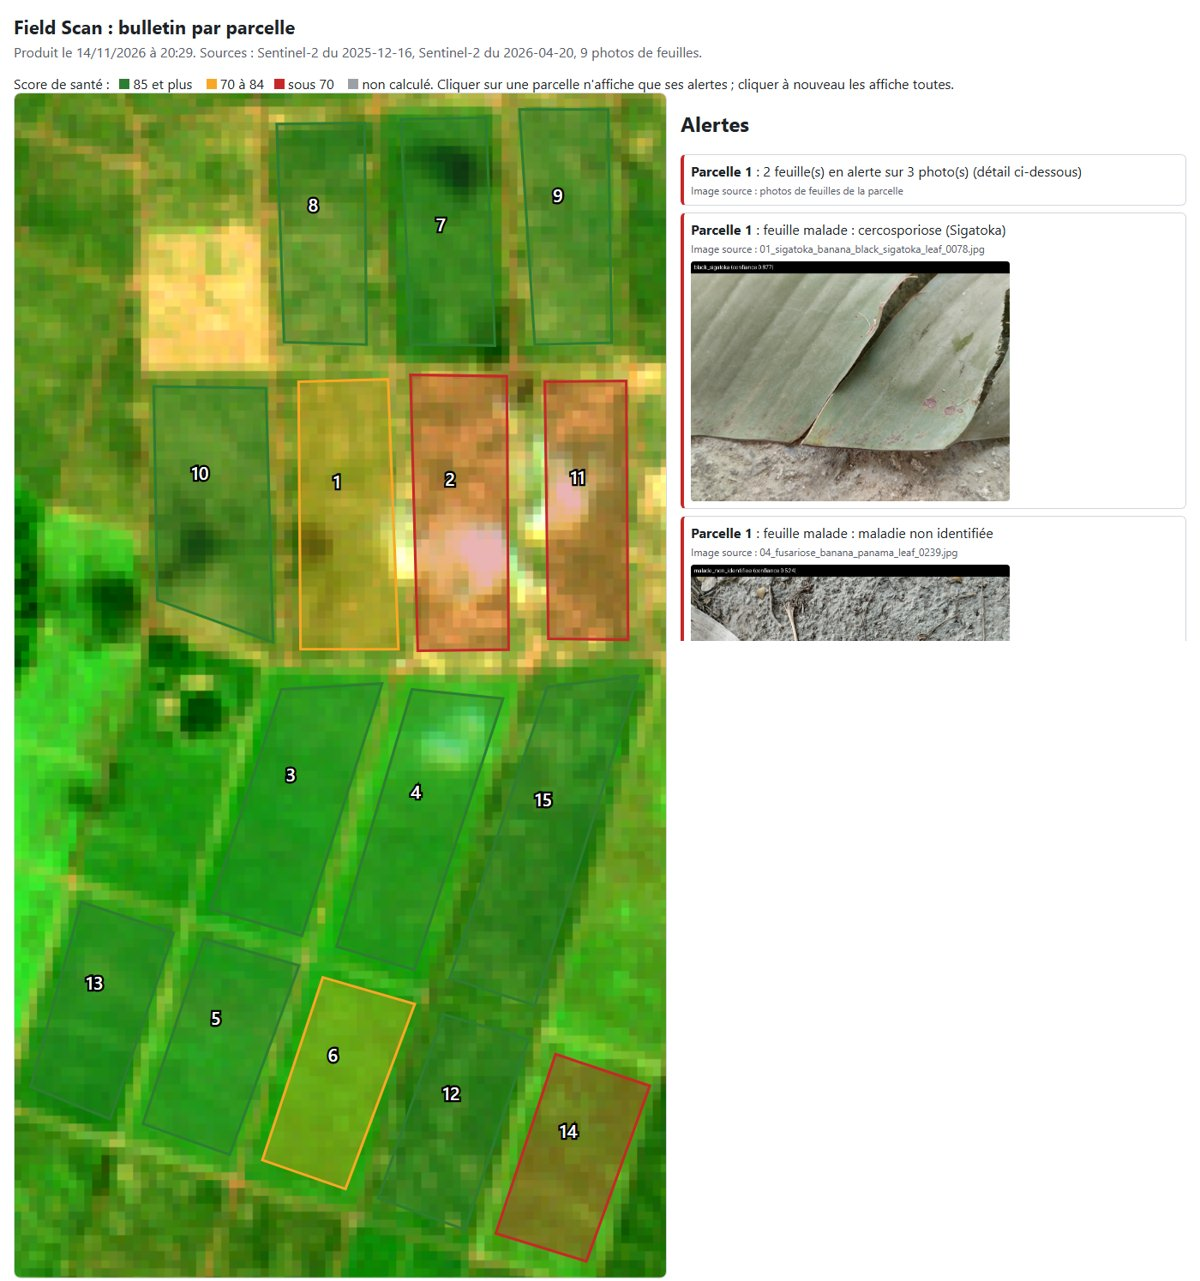
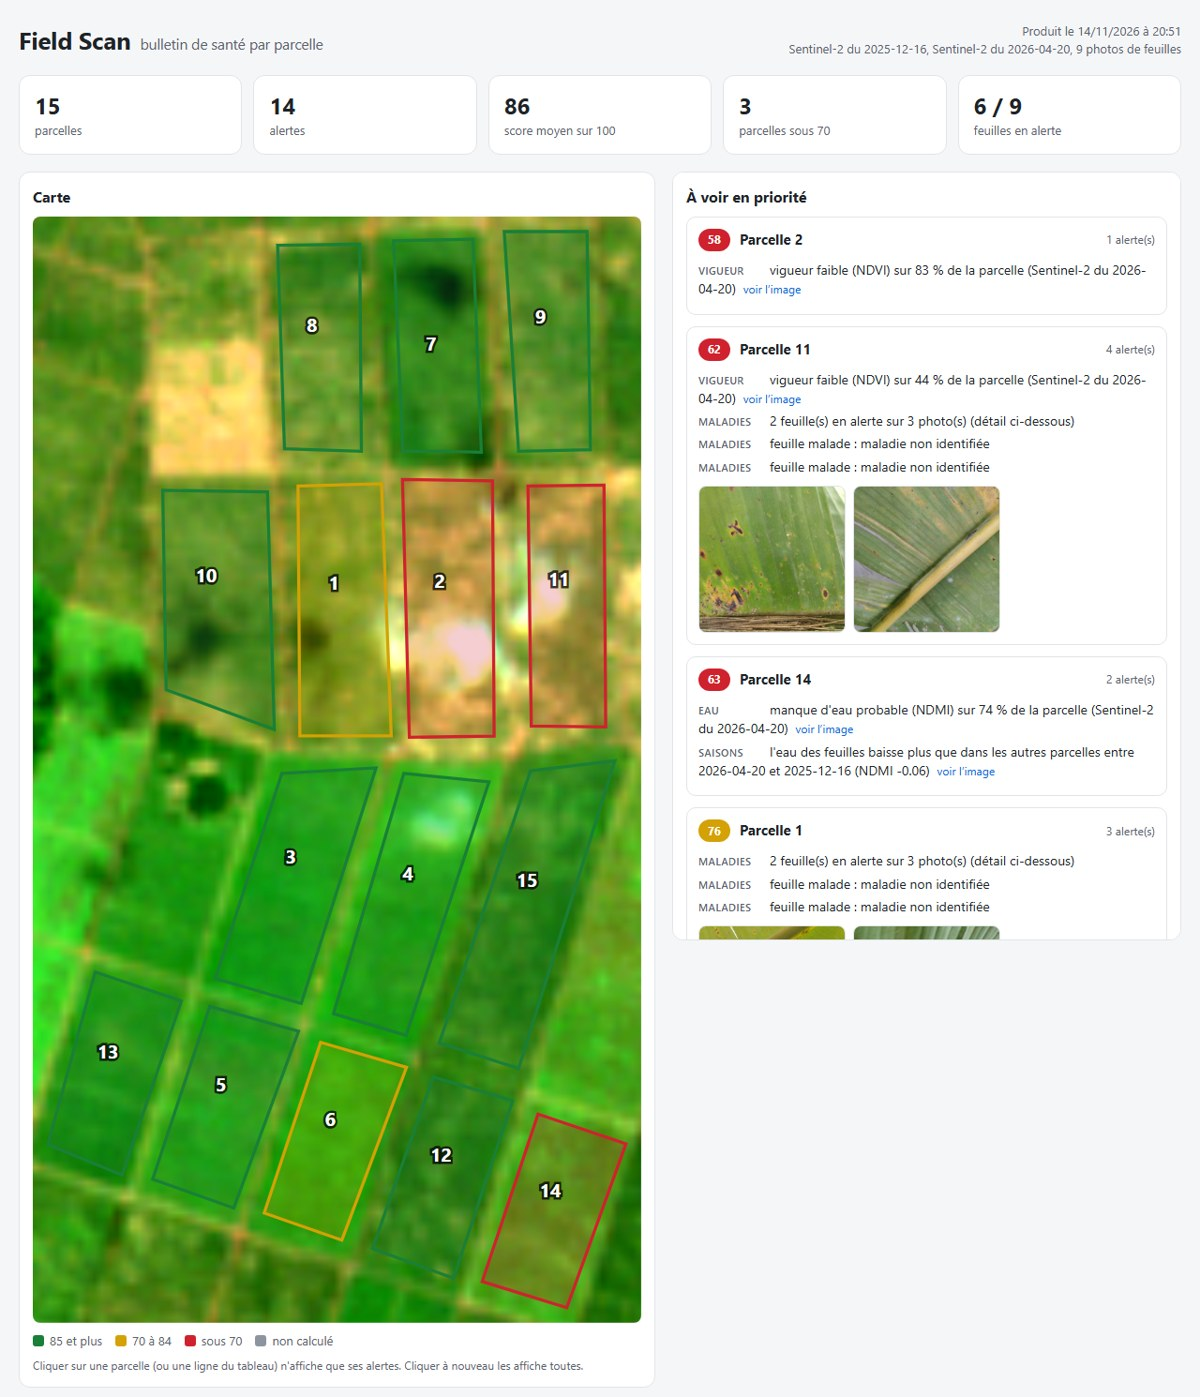
Bulletin refait : plus clair et plus propre
En haut, les chiffres clés (parcelles, alertes, score moyen, pieds, feuilles).
La carte a un fond Sentinel-2 lissé et des contours nets. Les alertes sont
regroupées par parcelle, de la pire à la meilleure, avec le score en pastille.
Seules les photos de feuilles ont une vignette, carrée, sans texte collé dessus ;
les autres alertes ont un lien vers leur image.
Le tableau a des noms de colonnes lisibles et des nombres à la française.
Les avertissements passent en bas, dans « Remarques ».
README : nouvelle image du bulletin, avec des feuilles prises de près.

diff --git a/bulletin/bulletin.py b/bulletin/bulletin.py
@@ -50,85 +50,202 @@ def notes_et_alertes(parcelles, mesures):
     return tableau, alertes
 
 
+VERT, ORANGE, ROUGE, GRIS = "#1a7f37", "#d4a106", "#cf222e", "#8c959f"
+
+NOMS_COLONNES = {
+    "parcelle": "Parcelle", "priorite": "Priorité", "surface_ha": "Surface (ha)", "pieds": "Pieds",
+    "pieds_par_ha": "Pieds par ha", "vari": "VARI", "couverture_vegetale_%": "Couverture végétale (%)",
+    "vigueur_drone_faible_%": "Vigueur faible, drone (%)", "vigueur_faible_%": "Vigueur faible (%)",
+    "eau_faible_%": "Manque d'eau (%)", "baisse_ndmi_saison": "Baisse du NDMI entre saisons",
+    "photos_feuilles": "Photos de feuilles", "feuilles_malades": "Feuilles malades",
+    "feuilles_inconnu": "« Je ne sais pas »", "note_vigueur": "Note vigueur", "note_eau": "Note eau",
+    "note_maladies": "Note maladies", "score_sante": "Score de santé",
+}
+THEMES = {"vigueur": "Vigueur", "eau": "Eau", "maladies": "Maladies", "saisons": "Saisons"}
+
+
+def _vide(v):
+    if v is None or isinstance(v, str):
+        return v is None
+    try:
+        return bool(pd.isna(v))
+    except (TypeError, ValueError):
+        return False
+
+
 def _couleur(score):
-    if score is None or (isinstance(score, float) and np.isnan(score)):
-        return "#9aa0a6"
-    return "#2e7d32" if score >= 85 else "#f9a825" if score >= SEUIL_ALERTE else "#c62828"
+    if _vide(score):
+        return GRIS
+    return VERT if score >= 85 else ORANGE if score >= SEUIL_ALERTE else ROUGE
+
+
+def _nom_colonne(c):
+    if c in NOMS_COLONNES:
+        return NOMS_COLONNES[c]
+    for prefixe in ("ndvi", "ndre", "ndmi"):
+        if c.startswith(prefixe + "_"):
+            return f"{prefixe.upper()} {c[len(prefixe) + 1:]}"
+    return c.replace("_", " ")
+
+
+def _nombre(v):
+    """Nombre à la française : entier sans virgule, sinon 3 décimales sous 1, 1 au-dessus."""
+    if _vide(v):
+        return ""
+    if isinstance(v, (int, np.integer)) or (isinstance(v, (float, np.floating)) and float(v).is_integer()):
+        return f"{int(v):,}".replace(",", " ")
+    if isinstance(v, (float, np.floating)):
+        return (f"{v:.3f}" if abs(v) < 1 else f"{v:.1f}").replace(".", ",")
+    return str(v)
+
+
+def _pastille(score):
+    texte = "?" if _vide(score) else int(score)
+    return f'<span class="pastille" style="background:{_couleur(score)}">{texte}</span>'
 
 
 def ecrire_html(chemin, tableau, alertes, fond, parcelles_px, pieds_px, sources, avertissements):
-    """Page autonome (sans connexion internet) : carte des parcelles sur l'image de fond, tableau,
-    alertes avec leur image source. fond : (nom du PNG, largeur, hauteur) ; parcelles_px : {id: [anneaux
-    de points en pixels du fond]} ; pieds_px : liste de (x, y)."""
+    """Page autonome (sans connexion internet) : chiffres clés, carte des parcelles sur l'image de fond,
+    alertes regroupées par parcelle avec leurs images, tableau. fond : (nom du PNG, largeur, hauteur) ;
+    parcelles_px : {id: [anneaux de points en pixels du fond]} ; pieds_px : liste de (x, y)."""
     l, h = (fond[1], fond[2]) if fond else (800, 600)
+    e = max(l, h) / 900                                   # épaisseurs à l'échelle de la carte
+    scores = {r["parcelle"]: r.get("score_sante") for _, r in tableau.iterrows()}
+
+    # carte
     formes = []
     for _, r in tableau.iterrows():
         anneaux = parcelles_px.get(r["parcelle"], [])
         d = " ".join("M" + " L".join(f"{x:.1f},{y:.1f}" for x, y in a) + " Z" for a in anneaux)
-        score = r.get("score_sante")
-        formes.append(f'<path class="parcelle" data-id="{r["parcelle"]}" d="{d}" fill="{_couleur(score)}" '
-                      f'fill-opacity="0.35" stroke="{_couleur(score)}" stroke-width="2"><title>Parcelle {r["parcelle"]}'
-                      f' : score {score if score is not None else "non calculé"}</title></path>')
+        c = _couleur(r.get("score_sante"))
+        formes.append(f'<path class="parcelle" data-id="{r["parcelle"]}" d="{d}" fill="{c}" fill-opacity="0.22" '
+                      f'stroke="{c}" stroke-width="{2.5 * e:.1f}"><title>Parcelle {r["parcelle"]}</title></path>')
         if anneaux:
             xs, ys = zip(*anneaux[0])
-            formes.append(f'<text x="{np.mean(xs):.0f}" y="{np.mean(ys):.0f}" class="etiquette">{r["parcelle"]}</text>')
-    points = "".join(f'<circle cx="{x:.1f}" cy="{y:.1f}" r="2.5" class="pied"/>' for x, y in pieds_px)
+            formes.append(f'<text x="{np.mean(xs):.0f}" y="{np.mean(ys):.0f}" class="etiquette" '
+                          f'style="font-size:{15 * e:.0f}px;stroke-width:{4 * e:.1f}px">{r["parcelle"]}</text>')
+    points = "".join(f'<circle cx="{x:.1f}" cy="{y:.1f}" r="{2.6 * e:.1f}" class="pied"/>' for x, y in pieds_px)
     image = f'<image href="{fond[0]}" x="0" y="0" width="{l}" height="{h}"/>' if fond else ""
     carte = (f'<svg viewBox="0 0 {l} {h}" class="carte" xmlns="http://www.w3.org/2000/svg">{image}'
              f'{"".join(formes)}<g>{points}</g></svg>')
 
-    colonnes = [c for c in tableau.columns if c != "alertes"] + ["alertes"]
-    entete = "".join(f"<th>{html.escape(str(c))}</th>" for c in colonnes)
+    # chiffres clés
+    cles = [(str(len(tableau)), "parcelles"), (str(len(alertes)), "alertes")]
+    if "score_sante" in tableau and tableau.score_sante.notna().any():
+        cles.append((str(int(round(tableau.score_sante.mean()))), "score moyen sur 100"))
+        cles.append((str(int((tableau.score_sante < SEUIL_ALERTE).sum())), "parcelles sous 70"))
+    if "pieds" in tableau and tableau.pieds.notna().any():
+        cles.append((_nombre(int(tableau.pieds.sum())), "pieds détectés"))
+    if "photos_feuilles" in tableau and tableau.photos_feuilles.notna().any():
+        cles.append((f"{int(tableau.feuilles_malades.sum())} / {int(tableau.photos_feuilles.sum())}",
+                     "feuilles en alerte"))
+    bloc_cles = "".join(f'<div class="cle"><b>{v}</b><span>{html.escape(t)}</span></div>' for v, t in cles)
+
+    # alertes regroupées par parcelle, dans l'ordre de priorité du tableau
+    par_parcelle = {}
+    for a in alertes:
+        par_parcelle.setdefault(a["parcelle"], []).append(a)
+    blocs = []
+    for _, r in tableau.iterrows():
+        liste = par_parcelle.get(r["parcelle"])
+        if not liste:
+            continue
+        lignes, images = [], []
+        for a in liste:
+            theme = THEMES.get(a.get("theme"), str(a.get("theme", "")).capitalize())
+            photo = a.get("theme") == "maladies" and a.get("apercu")
+            lien = (f' <a class="lien" href="{a["apercu"]}" target="_blank">voir l’image</a>'
+                    if a.get("apercu") and not photo else "")
+            lignes.append(f'<li><span class="theme">{html.escape(theme)}</span>{html.escape(a.get("message", ""))}{lien}</li>')
+            if photo:                                  # vignettes pour les photos de feuilles seulement
+                src = html.escape(str(a.get("source", "")))
+                images.append(f'<a href="{a["apercu"]}" target="_blank"><img src="{a["apercu"]}" alt="{src}" '
+                              f'title="{html.escape(a.get("message", ""))} ({src})" loading="lazy"></a>')
+        galerie = f'<div class="images">{"".join(images)}</div>' if images else ""
+        blocs.append(f'<article class="bloc" data-id="{r["parcelle"]}"><header>{_pastille(scores.get(r["parcelle"]))}'
+                     f'<h3>Parcelle {r["parcelle"]}</h3><span class="nb">{len(liste)} alerte(s)</span></header>'
+                     f'<ul>{"".join(lignes)}</ul>{galerie}</article>')
+    bloc_alertes = "".join(blocs) or '<p class="rien">Aucune alerte : toutes les parcelles vont bien.</p>'
+
+    # tableau (les alertes sont déjà à droite de la carte)
+    colonnes = [c for c in tableau.columns if c != "alertes"]
+    entete = "".join(f"<th>{html.escape(_nom_colonne(c))}</th>" for c in colonnes)
     corps = ""
     for _, r in tableau.iterrows():
-        cellules = "".join(f"<td>{'' if pd.isna(r[c]) else html.escape(str(r[c]))}</td>" for c in colonnes)
+        cellules = "".join(f'<td>{_pastille(r[c]) if c == "score_sante" else html.escape(_nombre(r[c]))}</td>'
+                           for c in colonnes)
         corps += f'<tr data-id="{r["parcelle"]}">{cellules}</tr>'
 
-    cartes_alertes = ""
-    for a in alertes:
-        apercu = f'<a href="{a["apercu"]}" target="_blank"><img src="{a["apercu"]}" alt="image source"></a>' if a.get("apercu") else ""
-        cartes_alertes += (f'<div class="alerte" data-id="{a["parcelle"]}"><b>Parcelle {a["parcelle"]}</b> : '
-                           f'{html.escape(a.get("message", ""))}<br><span class="source">Image source : '
-                           f'{html.escape(str(a.get("source", "inconnue")))}</span>{apercu}</div>')
-    if not alertes:
-        cartes_alertes = "<p>Aucune alerte.</p>"
-
+    remarques = "".join(f"<li>{html.escape(a)}</li>" for a in avertissements)
+    bloc_remarques = f'<div class="remarques"><b>Remarques</b><ul>{remarques}</ul></div>' if remarques else ""
+    legende_pieds = '<span><i class="rond"></i>pied détecté</span>' if pieds_px else ""
     page = f"""<!doctype html><html lang="fr"><head><meta charset="utf-8">
 <meta name="viewport" content="width=device-width, initial-scale=1"><title>Field Scan : bulletin</title>
 <style>
-body {{ font-family: system-ui, sans-serif; margin: 16px; color: #1f2328; background: #fff; }}
-h1 {{ font-size: 22px; margin: 0 0 4px; }} .sous-titre {{ color: #57606a; margin-bottom: 16px; }}
-.haut {{ display: flex; gap: 16px; flex-wrap: wrap; align-items: flex-start; }}
-.carte {{ width: 100%; max-width: 760px; border: 1px solid #d0d7de; border-radius: 8px; background: #f6f8fa; }}
-.parcelle {{ cursor: pointer; }} .parcelle.choisie {{ stroke: #0969da; stroke-width: 4; fill-opacity: 0.55; }}
-.etiquette {{ font-size: 14px; font-weight: 600; fill: #fff; paint-order: stroke; stroke: #000; stroke-width: 3px; text-anchor: middle; pointer-events: none; }}
-.pied {{ fill: #00e5ff; stroke: #003a40; stroke-width: 0.6; }}
-#alertes {{ flex: 1; min-width: 280px; max-height: 640px; overflow: auto; }}
-.alerte {{ border: 1px solid #d0d7de; border-left: 4px solid #c62828; border-radius: 6px; padding: 8px; margin-bottom: 8px; }}
-.alerte img {{ display: block; max-width: 100%; max-height: 280px; margin-top: 6px; border-radius: 4px; }}
-.alerte.cachee {{ display: none; }} .source {{ color: #57606a; font-size: 12px; }}
-.defile {{ overflow-x: auto; }} td:last-child {{ min-width: 360px; }}
-table {{ border-collapse: collapse; margin-top: 16px; font-size: 13px; }}
-th, td {{ border: 1px solid #d0d7de; padding: 4px 6px; text-align: left; }} th {{ background: #f6f8fa; }}
-tr.choisie td {{ background: #ddf4ff; }} .legende span {{ display: inline-block; width: 12px; height: 12px; margin: 0 4px 0 12px; }}
-.avert {{ color: #9a6700; font-size: 13px; }}
-</style></head><body>
-<h1>Field Scan : bulletin par parcelle</h1>
-<div class="sous-titre">Produit le {datetime.now():%d/%m/%Y à %H:%M}. Sources : {html.escape(", ".join(sources)) or "aucune"}.</div>
-{"".join(f'<p class="avert">{html.escape(a)}</p>' for a in avertissements)}
-<div class="legende">Score de santé :<span style="background:#2e7d32"></span>85 et plus
-<span style="background:#f9a825"></span>70 à 84<span style="background:#c62828"></span>sous 70
-<span style="background:#9aa0a6"></span>non calculé{" · points bleus : pieds détectés" if pieds_px else ""}.
-Cliquer sur une parcelle n'affiche que ses alertes ; cliquer à nouveau les affiche toutes.</div>
-<div class="haut">{carte}<div id="alertes"><h2>Alertes</h2>{cartes_alertes}</div></div>
-<div class="defile"><table><thead><tr>{entete}</tr></thead><tbody>{corps}</tbody></table></div>
+:root {{ --fond: #f5f6f8; --carte: #fff; --texte: #1f2328; --doux: #59636e; --bord: #e1e4e8; }}
+* {{ box-sizing: border-box; }}
+body {{ margin: 0; font-family: "Segoe UI", system-ui, -apple-system, sans-serif; color: var(--texte); background: var(--fond); font-size: 14px; line-height: 1.45; }}
+.page {{ max-width: 1280px; margin: 0 auto; padding: 24px 20px 40px; }}
+.titre {{ display: flex; justify-content: space-between; align-items: flex-end; flex-wrap: wrap; gap: 8px; margin-bottom: 18px; }}
+.titre h1 {{ margin: 0; font-size: 26px; letter-spacing: -0.3px; }}
+.titre h1 small {{ font-weight: 400; color: var(--doux); font-size: 16px; margin-left: 10px; }}
+.titre .info {{ color: var(--doux); font-size: 13px; text-align: right; }}
+.cles {{ display: grid; grid-template-columns: repeat(auto-fit, minmax(150px, 1fr)); gap: 12px; margin-bottom: 18px; }}
+.cle {{ background: var(--carte); border: 1px solid var(--bord); border-radius: 12px; padding: 14px 16px; }}
+.cle b {{ display: block; font-size: 24px; }} .cle span {{ color: var(--doux); font-size: 13px; }}
+.corps {{ display: grid; grid-template-columns: minmax(0, 1.25fr) minmax(0, 1fr); gap: 18px; align-items: start; }}
+@media (max-width: 960px) {{ .corps {{ grid-template-columns: 1fr; }} }}
+.panneau {{ background: var(--carte); border: 1px solid var(--bord); border-radius: 12px; padding: 14px; }}
+.panneau h2 {{ font-size: 16px; margin: 0 0 10px; }}
+.carte {{ display: block; width: 100%; height: auto; border-radius: 8px; background: #e9ecef; }}
+.parcelle {{ cursor: pointer; transition: fill-opacity .15s; }} .parcelle:hover {{ fill-opacity: 0.4; }}
+.parcelle.choisie {{ stroke: #0969da; fill-opacity: 0.45; }}
+.etiquette {{ font-weight: 700; fill: #fff; paint-order: stroke; stroke: rgba(0,0,0,.75); text-anchor: middle; dominant-baseline: middle; pointer-events: none; }}
+.pied {{ fill: #00d2ff; stroke: #00323d; stroke-width: 0.8; }}
+.legende {{ display: flex; flex-wrap: wrap; gap: 14px; margin-top: 10px; color: var(--doux); font-size: 13px; }}
+.legende i {{ display: inline-block; width: 12px; height: 12px; border-radius: 3px; margin-right: 6px; vertical-align: -1px; }}
+.legende i.rond {{ border-radius: 50%; background: #00d2ff; border: 1px solid #00323d; }}
+.aide {{ color: var(--doux); font-size: 12px; margin: 8px 0 0; }}
+#alertes {{ max-height: 820px; overflow: auto; }}
+.bloc {{ border: 1px solid var(--bord); border-radius: 10px; padding: 12px; margin-bottom: 12px; }}
+.bloc.cachee {{ display: none; }}
+.bloc header {{ display: flex; align-items: center; gap: 10px; }} .bloc h3 {{ margin: 0; font-size: 15px; flex: 1; }}
+.nb {{ color: var(--doux); font-size: 12px; }}
+.pastille {{ display: inline-flex; align-items: center; justify-content: center; min-width: 34px; height: 24px; padding: 0 8px; border-radius: 12px; color: #fff; font-weight: 700; font-size: 12px; }}
+.bloc ul {{ margin: 10px 0 0; padding: 0; list-style: none; }} .bloc li {{ margin: 4px 0; }}
+.theme {{ display: inline-block; min-width: 76px; font-size: 11px; font-weight: 600; text-transform: uppercase; letter-spacing: .4px; color: var(--doux); }}
+.images {{ display: grid; grid-template-columns: repeat(auto-fill, minmax(120px, 1fr)); gap: 8px; margin-top: 10px; }}
+.images img {{ display: block; width: 100%; aspect-ratio: 1; object-fit: cover; border-radius: 8px; border: 1px solid var(--bord); }}
+.lien {{ color: #0969da; font-size: 12px; text-decoration: none; margin-left: 4px; }} .lien:hover {{ text-decoration: underline; }}
+.rien {{ color: var(--doux); }}
+.remarques {{ margin: 18px 0 0; color: var(--doux); font-size: 13px; }} .remarques ul {{ margin: 6px 0 0; padding-left: 18px; }}
+.defile {{ overflow-x: auto; margin-top: 18px; }}
+table {{ border-collapse: collapse; width: 100%; font-size: 13px; }}
+th, td {{ padding: 8px 10px; text-align: right; white-space: nowrap; border-bottom: 1px solid var(--bord); }}
+th:first-child, td:first-child {{ text-align: left; }}
+th {{ background: #f0f2f4; font-weight: 600; color: #3b434b; }}
+tbody tr {{ cursor: pointer; }} tbody tr:hover td {{ background: #f6f8fa; }} tr.choisie td {{ background: #ddf4ff; }}
+</style></head><body><div class="page">
+<div class="titre"><h1>Field Scan<small>bulletin de santé par parcelle</small></h1>
+<div class="info">Produit le {datetime.now():%d/%m/%Y à %H:%M}<br>{html.escape(", ".join(sources)) or "aucune source"}</div></div>
+<div class="cles">{bloc_cles}</div>
+<div class="corps">
+<section class="panneau"><h2>Carte</h2>{carte}
+<div class="legende"><span><i style="background:{VERT}"></i>85 et plus</span><span><i style="background:{ORANGE}"></i>70 à 84</span>
+<span><i style="background:{ROUGE}"></i>sous 70</span><span><i style="background:{GRIS}"></i>non calculé</span>{legende_pieds}</div>
+<p class="aide">Cliquer sur une parcelle (ou une ligne du tableau) n'affiche que ses alertes. Cliquer à nouveau les affiche toutes.</p></section>
+<section class="panneau" id="alertes"><h2>À voir en priorité</h2>{bloc_alertes}</section>
+</div>
+<section class="panneau defile"><h2>Toutes les parcelles</h2><table><thead><tr>{entete}</tr></thead><tbody>{corps}</tbody></table></section>
+{bloc_remarques}
+</div>
 <script>
 let choisie = null;
 document.querySelectorAll('.parcelle, tbody tr').forEach(el => el.addEventListener('click', () => {{
   const id = el.dataset.id; choisie = (choisie === id) ? null : id;
   document.querySelectorAll('.parcelle').forEach(p => p.classList.toggle('choisie', p.dataset.id === choisie));
   document.querySelectorAll('tbody tr').forEach(t => t.classList.toggle('choisie', t.dataset.id === choisie));
-  document.querySelectorAll('.alerte').forEach(a => a.classList.toggle('cachee', choisie !== null && a.dataset.id !== choisie));
+  document.querySelectorAll('.bloc').forEach(a => a.classList.toggle('cachee', choisie !== null && a.dataset.id !== choisie));
 }}));
 </script></body></html>"""
     chemin.write_text(page, encoding="utf-8")

diff --git a/bulletin/apercus.py b/bulletin/apercus.py
@@ -40,7 +40,7 @@ def rendre(source, crs, t, largeur, hauteur):
         couches, valide = [], np.ones((hauteur, largeur), bool)
         for b in ("B04", "B03", "B02"):
             with rasterio.open(source[b]) as src, WarpedVRT(src, crs=crs, transform=t, width=largeur, height=hauteur,
-                                                           resampling=Resampling.nearest) as vrt:
+                                                           resampling=Resampling.bilinear) as vrt:   # lissé pour l'œil
                 couches.append(vrt.read(1).astype("float32"))
                 valide &= vrt.read_masks(1) > 0
         rgb = np.stack(couches)
@@ -71,16 +71,12 @@ def apercu(chemin_png, source, crs, parcelle, zones, couleur_zone, legende):
                 dessin.polygon(anneau, outline=couleur_zone, width=2)
     for anneau in anneaux_px(parcelle, t):
         dessin.line(anneau + anneau[:1], fill=(255, 255, 255), width=3)
-    dessin.rectangle([0, 0, largeur, 22], fill=(0, 0, 0))
-    dessin.text((6, 5), legende, fill=(255, 255, 255))
-    image.save(chemin_png)
+    image.save(chemin_png)          # la légende est écrite dans la page, pas sur l'image
 
 
-def miniature_photo(chemin_photo, chemin_png, legende):
+def miniature_photo(chemin_photo, chemin_png, legende=None):
+    """Vignette carrée (centre de la photo, 480 px). La légende est écrite dans la page."""
     with Image.open(chemin_photo) as im:
         im = ImageOps.exif_transpose(im).convert("RGB")
-        im.thumbnail((600, 600))
-    dessin = ImageDraw.Draw(im)
-    dessin.rectangle([0, 0, im.width, 22], fill=(0, 0, 0))
-    dessin.text((6, 5), legende, fill=(255, 255, 255))
+        im = ImageOps.fit(im, (480, 480), Image.LANCZOS)
     im.save(chemin_png)

diff --git a/README.md b/README.md
@@ -5,7 +5,7 @@ Field Scan regarde une bananeraie d'en haut et sort un bulletin de santé, parce
 Projet piscine Intelligence Lab, ECE.
 
 ![Bulletin de la démo : 15 parcelles au Cameroun, Sentinel-2 à deux dates, 9 photos de feuilles](docs/images/bulletin_demo.jpg)
-*Le bulletin de la démo du 14/11/2026 : 15 parcelles au Cameroun, Sentinel-2 à deux dates et 9 photos de feuilles. Les parcelles sont colorées par score de santé. À droite, chaque alerte montre l'image qui la justifie.*
+*Le bulletin de la démo du 14/11/2026 : 15 parcelles au Cameroun, Sentinel-2 à deux dates et 9 photos de feuilles prises de près. En haut, les chiffres clés. La carte colore chaque parcelle par son score de santé. À droite, les parcelles à voir en premier, avec leurs alertes et les photos de feuilles en cause.*
 
 ## Le projet
 
